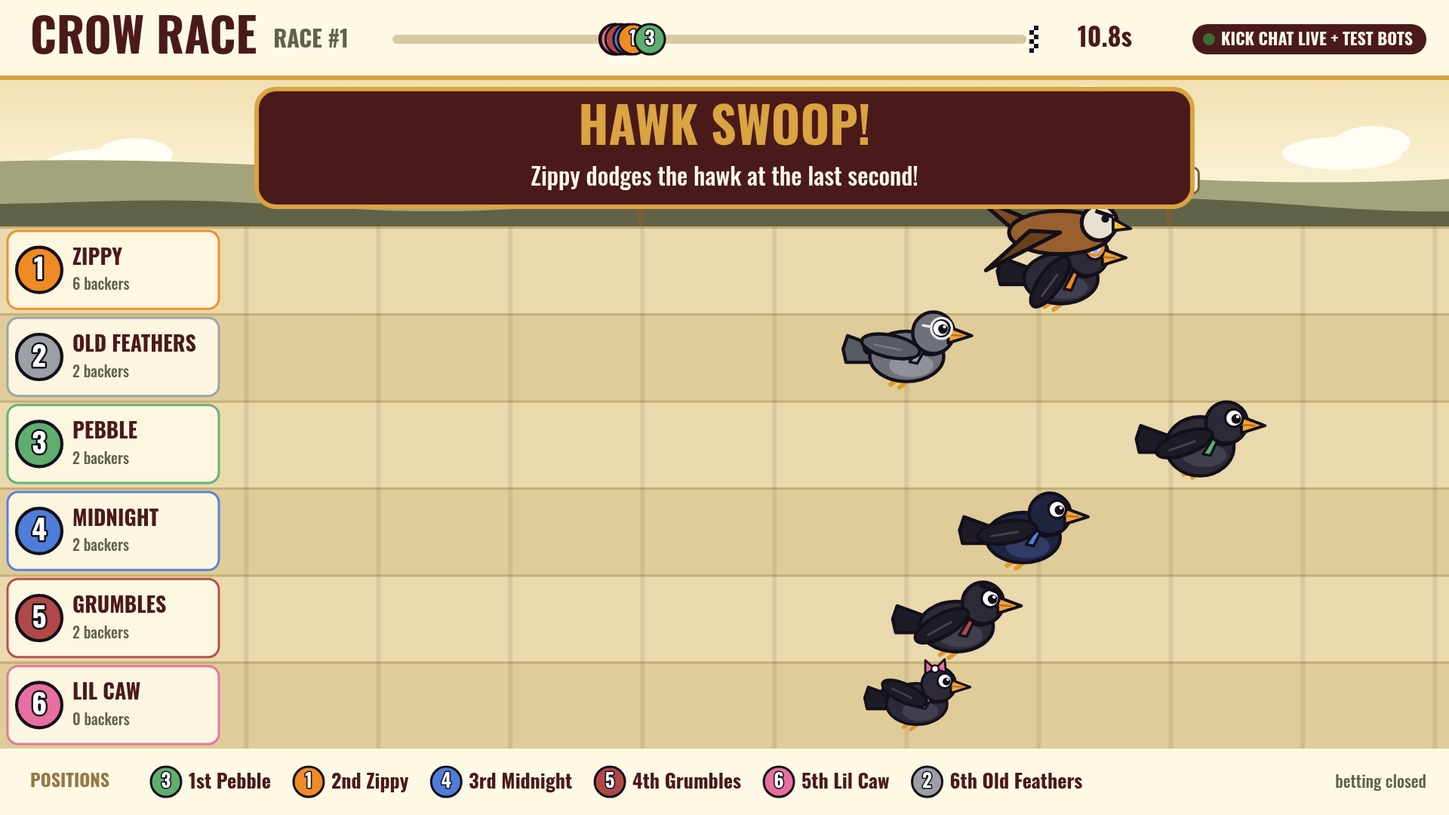
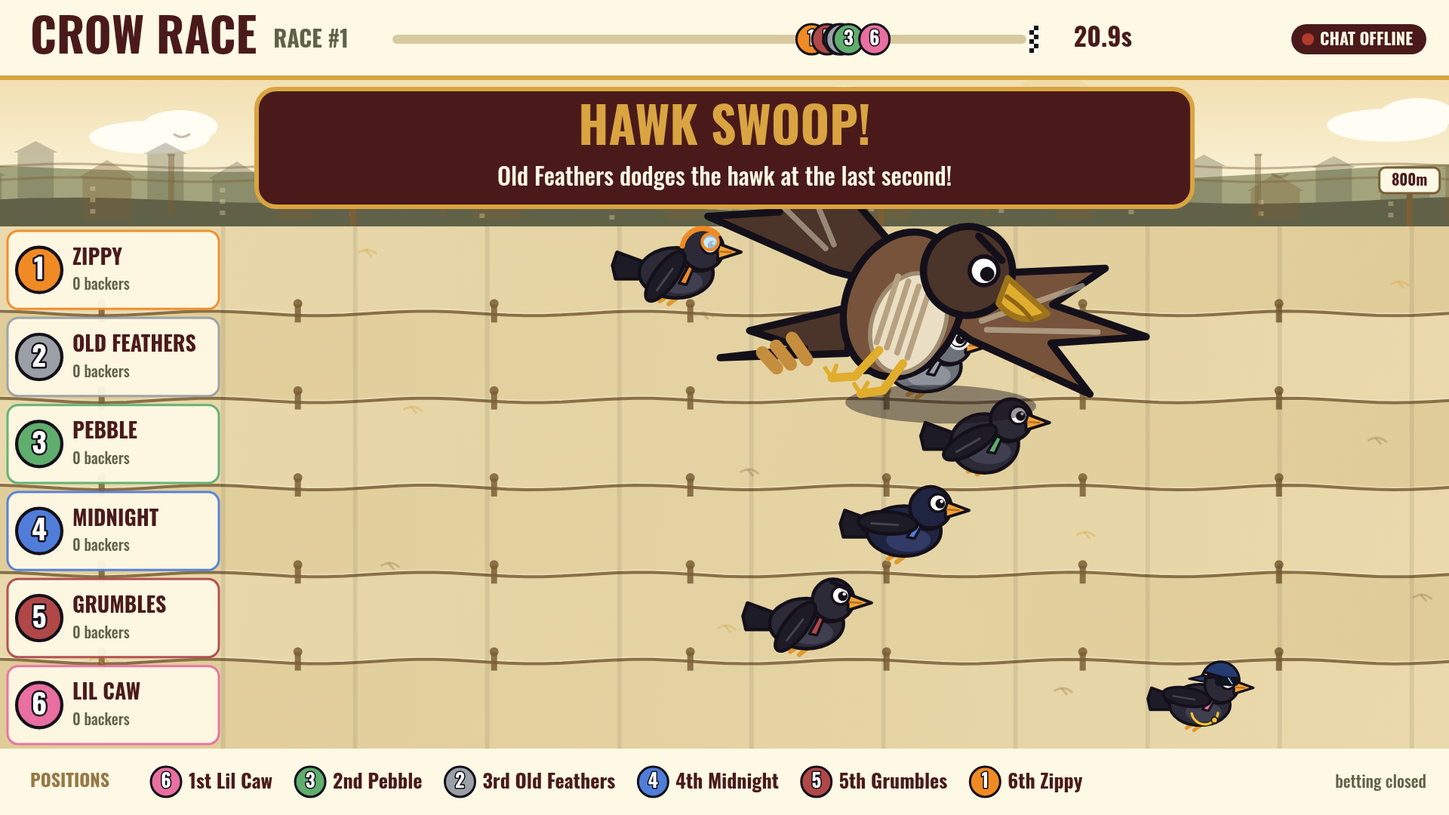
Refresh hawk and race course visuals

diff --git a/index.html b/index.html
@@ -60,7 +60,7 @@ const DATA = {
   roster: [
     { id: 'bigbeak',     name: 'Big Beak',     line: 'All beak, no brakes.',              spd: 1.035, sta: 0.45, luck: 0.30, greed: 0.30, acc: 'beak',    col: '#d9583b' },
     { id: 'shinythief',  name: 'Shiny Thief',  line: 'Stops for anything that glitters.', spd: 1.045, sta: 0.60, luck: 0.50, greed: 1.00, acc: 'mask',    col: '#e0b030' },
-    { id: 'lilcaw',      name: 'Lil Caw',      line: 'Tiny, fearless, weirdly lucky.',    spd: 0.970, sta: 0.70, luck: 0.95, greed: 0.30, acc: 'bow',     col: '#e86fa0', small: true },
+    { id: 'lilcaw',      name: 'Lil Caw',      line: 'Spits bars mid-flight. Small bird, big flow.', spd: 0.970, sta: 0.70, luck: 0.95, greed: 0.30, acc: 'rapper',  col: '#e86fa0', small: true },
     { id: 'oldfeathers', name: 'Old Feathers', line: 'Slow start. Never gets tired.',     spd: 0.970, sta: 1.00, luck: 0.60, greed: 0.10, acc: 'glasses', col: '#9aa0a6', grey: true },
     { id: 'sirsquawks',  name: 'Sir Squawks',  line: 'Top hat. Bigger ego.',              spd: 1.020, sta: 0.60, luck: 0.40, greed: 0.45, acc: 'tophat',  col: '#7b5cd6' },
     { id: 'midnight',    name: 'Midnight',     line: 'Silent, fast, a little spooky.',    spd: 1.030, sta: 0.40, luck: 0.40, greed: 0.20, acc: 'none',    col: '#4f7dd9' },
@@ -427,6 +427,13 @@ function drawCrow(x, y, s, c, t, o) {
   switch (c.acc) {
     case 'mask': ctx.save(); rr(18, -42, 46, 16, 7); ctx.fillStyle = '#0b0a10'; ctx.fill(); circ(46, -33, 8); fs('#fff'); circ(49, -32, 5); fs(OUT); ctx.restore(); break;
     case 'bow': ctx.beginPath(); ctx.moveTo(30, -52); ctx.lineTo(14, -66); ctx.lineTo(14, -44); ctx.closePath(); fs(c.col, 3.5); ctx.beginPath(); ctx.moveTo(30, -52); ctx.lineTo(46, -68); ctx.lineTo(48, -46); ctx.closePath(); fs(c.col, 3.5); circ(30, -52, 6); fs('#fff', 3); break;
+    case 'rapper':
+      // backwards cap + compact shades keep Lil Caw recognizable even at race scale
+      ctx.beginPath(); ctx.arc(34, -34, 31, Math.PI * 1.08, Math.PI * 2.02); ctx.lineTo(7, -48); ctx.lineTo(0, -38); ctx.lineTo(24, -39); ctx.closePath(); fs('#263b72', 4);
+      ctx.beginPath(); ctx.moveTo(8, -43); ctx.lineTo(-18, -37); ctx.lineTo(8, -32); ctx.closePath(); fs('#263b72', 3);
+      rr(26, -39, 37, 12, 5); fs('#101522', 3); ctx.strokeStyle = '#9bd4e8'; ctx.lineWidth = 2; ctx.beginPath(); ctx.moveTo(47, -38); ctx.lineTo(53, -29); ctx.stroke();
+      ctx.save(); ctx.strokeStyle = '#f4c430'; ctx.lineWidth = 4; ctx.beginPath(); ctx.arc(8, 16, 22, 0.16, 2.95); ctx.stroke(); circ(24, 31, 5); fs('#f4c430', 2, OUT); ctx.restore();
+      break;
     case 'glasses': circ(47, -32, 14); ctx.lineWidth = 3.5; ctx.strokeStyle = '#e8e8e8'; ctx.stroke(); ctx.beginPath(); ctx.moveTo(33, -34); ctx.lineTo(22, -36); ctx.stroke(); break;
     case 'tophat': rr(10, -58, 54, 8, 3); fs('#15141c', 3.5); rr(18, -94, 38, 38, 4); fs('#15141c', 3.5); rr(18, -66, 38, 8, 0); fs(c.col); break;
     case 'goggles': ctx.strokeStyle = c.col; ctx.lineWidth = 7; ctx.beginPath(); ctx.arc(36, -26, 28, Math.PI * 1.05, Math.PI * 1.75); ctx.stroke(); circ(46, -36, 11); fs('rgba(190,230,255,0.8)', 4, c.col); break;
@@ -439,16 +446,32 @@ function drawCrow(x, y, s, c, t, o) {
   ctx.strokeStyle = 'rgba(255,255,255,0.18)'; ctx.lineWidth = 3; ctx.beginPath(); ctx.moveTo(-40, 2); ctx.lineTo(-4, 2); ctx.stroke(); ctx.restore();
   ctx.restore();
 }
-function drawHawk(x, y, s, t) {
-  ctx.save(); ctx.translate(x, y); ctx.scale(s / 100, s / 100); ctx.lineJoin = 'round';
-  const f = Math.sin(t * 18) * 0.4;
-  ctx.save(); ctx.rotate(-f); ctx.beginPath(); ctx.moveTo(0, 0); ctx.lineTo(-70, -60); ctx.lineTo(-40, -10); ctx.closePath(); fs('#7a4a24', 4); ctx.restore();
-  ell(0, 0, 52, 22); fs('#9a5f2e', 4); circ(40, -10, 18); fs('#e8e0d0', 4);
-  ctx.beginPath(); ctx.moveTo(54, -14); ctx.lineTo(72, -4); ctx.lineTo(54, -2); ctx.closePath(); fs('#f2c230', 3);
-  circ(46, -14, 4); fs(OUT); ctx.strokeStyle = OUT; ctx.lineWidth = 4; ctx.beginPath(); ctx.moveTo(36, -22); ctx.lineTo(54, -16); ctx.stroke();
-  ctx.save(); ctx.rotate(f); ctx.beginPath(); ctx.moveTo(0, 0); ctx.lineTo(-60, 60); ctx.lineTo(-30, 8); ctx.closePath(); fs('#6a3f1e', 4); ctx.restore();
+function drawHawk(x, y, s, t, dive) {
+  // A broad, unmistakable raptor silhouette. Coordinates face down/right in a steep dive.
+  dive = dive || 0; const k = s / 100, flap = Math.sin(t * 11) * 0.08;
+  ctx.save(); ctx.translate(x, y); ctx.scale(k, k); ctx.rotate(0.32 + dive * 0.14); ctx.lineJoin = 'round'; ctx.lineCap = 'round';
+  const feather = '#4b3429', feather2 = '#76533a', pale = '#eadfc4', beak = '#e0ad2d';
+  // broad spread wings with separated flight feathers
+  ctx.save(); ctx.rotate(-0.10 + flap); ctx.beginPath(); ctx.moveTo(-6, -8); ctx.lineTo(-126, -62); ctx.lineTo(-94, -28); ctx.lineTo(-164, -22); ctx.lineTo(-106, -4); ctx.lineTo(-150, 20); ctx.lineTo(-56, 18); ctx.lineTo(-14, 10); ctx.closePath(); fs(feather, 5); ctx.restore();
+  ctx.save(); ctx.rotate(0.12 - flap); ctx.beginPath(); ctx.moveTo(2, -5); ctx.lineTo(112, -72); ctx.lineTo(92, -32); ctx.lineTo(160, -44); ctx.lineTo(104, -8); ctx.lineTo(145, 10); ctx.lineTo(54, 17); ctx.lineTo(10, 12); ctx.closePath(); fs(feather2, 5); ctx.restore();
+  // wing bar highlights make the spread read at a glance
+  ctx.strokeStyle = 'rgba(235,225,200,0.48)'; ctx.lineWidth = 4;
+  for (const [x1, y1, x2, y2] of [[-116,-45,-62,2],[-133,-15,-66,7],[106,-49,54,4],[130,-25,60,8]]) { ctx.beginPath(); ctx.moveTo(x1,y1); ctx.lineTo(x2,y2); ctx.stroke(); }
+  // tapered banded tail
+  ctx.beginPath(); ctx.moveTo(-30, 34); ctx.lineTo(-88, 82); ctx.lineTo(-48, 76); ctx.lineTo(-98, 108); ctx.lineTo(-20, 66); ctx.closePath(); fs(feather, 5);
+  ctx.strokeStyle = '#c58e3e'; ctx.lineWidth = 9; for (const q of [0.3, 0.58, 0.82]) { ctx.beginPath(); ctx.moveTo(-51 - q * 27, 63 + q * 35); ctx.lineTo(-34 - q * 31, 74 + q * 28); ctx.stroke(); }
+  // chest and body
+  ell(0, 18, 40, 52, -0.08); fs(feather2, 5); ell(9, 28, 25, 36, -0.08); fs(pale, 3, '#9e8b70');
+  ctx.strokeStyle = '#b6a281'; ctx.lineWidth = 4; for (let q = -1; q <= 2; q++) { ctx.beginPath(); ctx.moveTo(-4 + q * 8, 2); ctx.lineTo(3 + q * 8, 50); ctx.stroke(); }
+  // head, fierce brow, hooked yellow beak
+  circ(30, -23, 31); fs(feather, 5); circ(40, -28, 10); fs('#fff', 3); circ(43, -27, 5); fs(OUT); ctx.strokeStyle = OUT; ctx.lineWidth = 5; ctx.beginPath(); ctx.moveTo(26, -48); ctx.lineTo(48, -40); ctx.stroke();
+  ctx.beginPath(); ctx.moveTo(57, -31); ctx.lineTo(93, -21); ctx.quadraticCurveTo(80, -3, 59, -12); ctx.closePath(); fs(beak, 4, '#9e741b'); ctx.strokeStyle = '#8d6315'; ctx.lineWidth = 3; ctx.beginPath(); ctx.moveTo(62, -19); ctx.quadraticCurveTo(77, -17, 85, -12); ctx.stroke();
+  // visible talons reaching toward the crow
+  ctx.strokeStyle = beak; ctx.lineWidth = 6; ctx.beginPath(); ctx.moveTo(-1, 54); ctx.lineTo(-8, 78); ctx.lineTo(-22, 86); ctx.moveTo(18, 55); ctx.lineTo(14, 78); ctx.lineTo(1, 87); ctx.stroke();
+  ctx.lineWidth = 3; ctx.beginPath(); ctx.moveTo(-22, 86); ctx.lineTo(-29, 82); ctx.moveTo(-22, 86); ctx.lineTo(-23, 77); ctx.moveTo(1, 87); ctx.lineTo(-6, 83); ctx.moveTo(1, 87); ctx.lineTo(2, 78); ctx.stroke();
   ctx.restore();
 }
+
 function star(x, y, r, rot, col) { ctx.save(); ctx.translate(x, y); ctx.rotate(rot); ctx.beginPath(); for (let i = 0; i < 8; i++) { const a = i * Math.PI / 4, q = i % 2 ? r * 0.35 : r; ctx.lineTo(Math.cos(a) * q, Math.sin(a) * q); } ctx.closePath(); fs(col, 3); ctx.restore(); }
 
 /* ===================================================================== shared chrome */
@@ -559,19 +582,38 @@ function raceView() {
 }
 function drawRace(t) {
   const R = G.R, lu = G.lineup, n = R.crows.length, { k, cam } = raceView(), D = DATA.race;
-  // sky + parallax hills + clouds
+  // sky + layered parallax course: sun, moving clouds, hills, rooftops and wires
   const g = ctx.createLinearGradient(0, 100, 0, FIELD.top); g.addColorStop(0, P.sky2); g.addColorStop(1, P.sky1); ctx.fillStyle = g; ctx.fillRect(0, 100, 1920, FIELD.top - 100 + 2);
+  ctx.save(); ctx.globalAlpha = 0.72; circ(1560 - (cam * 0.04 % 260), 170, 48); fs(P.hi); circ(1560 - (cam * 0.04 % 260), 170, 72); ctx.globalAlpha = 0.09; fs(P.hi); ctx.restore();
   ctx.fillStyle = P.cloud; for (let i = 0; i < 7; i++) { const x = ((i * 380 - cam * 0.08 - t * 12) % 2400 + 2400) % 2400 - 240, y = 150 + (i * 53) % 90; ell(x, y, 80, 22); ctx.fill(); ell(x + 40, y - 14, 50, 22); ctx.fill(); }
   for (const [col, par, amp, base, fr] of [[P.hill1, 0.15, 40, FIELD.top - 50, 0.004], [P.hill2, 0.35, 28, FIELD.top - 14, 0.007]]) {
     ctx.beginPath(); ctx.moveTo(0, FIELD.top + 2); for (let x = 0; x <= 1920; x += 20) ctx.lineTo(x, base - amp * (0.6 + 0.4 * Math.sin((x + cam * par) * fr) * Math.cos((x + cam * par) * fr * 0.37))); ctx.lineTo(1920, FIELD.top + 2); ctx.closePath(); ctx.fillStyle = col; ctx.fill();
   }
-  // lanes
+  // A distant, slow-moving skyline gives the open-air race a sense of place.
+  ctx.save(); ctx.globalAlpha = 0.34; const cityShift = (cam * 0.12) % 420;
+  for (let bx = -80 - cityShift, i = 0; bx < 2050; bx += 86, i++) { const bw = 48 + (i * 17) % 34, bh = 28 + (i * 31) % 64, by = FIELD.top - 8 - bh; ctx.fillStyle = i % 3 ? P.hill2 : P.post; ctx.fillRect(bx, by, bw, bh); ctx.beginPath(); ctx.moveTo(bx - 5, by); ctx.lineTo(bx + bw * 0.5, by - 15 - (i % 2) * 8); ctx.lineTo(bx + bw + 5, by); ctx.closePath(); ctx.fill(); if (i % 2) { ctx.fillStyle = P.sky2; for (let wy = by + 12; wy < by + bh - 4; wy += 15) ctx.fillRect(bx + 10, wy, 7, 6); } }
+  ctx.restore();
+  // distant birds and telephone lines, deliberately faint so racers remain the focus
+  ctx.save(); ctx.globalAlpha = 0.42; ctx.strokeStyle = P.post; ctx.lineWidth = 3; ctx.lineCap = 'round';
+  const wireShift = (cam * 0.18) % 360; for (let wx = -120 - wireShift; wx < 2100; wx += 360) { ctx.fillStyle = P.post; ctx.fillRect(wx - 4, 205, 8, 82); ctx.beginPath(); ctx.moveTo(wx - 4, 205); ctx.lineTo(wx + 4, 205); ctx.stroke(); }
+  for (const wy of [220, 238]) { ctx.beginPath(); for (let wx = -150; wx <= 2050; wx += 24) ctx.lineTo(wx, wy + Math.sin(wx * 0.018 + cam * 0.01) * 3); ctx.stroke(); }
+  for (let i = 0; i < 8; i++) { const bx = ((i * 291 - cam * 0.18 + t * 18) % 2300 + 2300) % 2300 - 160, by = 178 + (i * 37) % 66; ctx.beginPath(); ctx.moveTo(bx - 10, by); ctx.quadraticCurveTo(bx, by + 7, bx + 10, by); ctx.stroke(); }
+  ctx.restore();
+  // lanes: alternating tints, rope-like dividers and regularly spaced posts
   const lh = (FIELD.bot - FIELD.top) / n;
-  for (let j = 0; j < n; j++) { ctx.fillStyle = j % 2 ? P.laneB : P.laneA; ctx.fillRect(0, FIELD.top + j * lh, 1920, lh); ctx.fillStyle = P.laneLine; ctx.fillRect(0, FIELD.top + j * lh, 1920, 3); }
+  for (let j = 0; j < n; j++) { const y = FIELD.top + j * lh; const lg = ctx.createLinearGradient(0, y, 1920, y + lh); lg.addColorStop(0, j % 2 ? P.laneB : P.laneA); lg.addColorStop(1, j % 2 ? P.laneA : P.laneB); ctx.fillStyle = lg; ctx.fillRect(0, y, 1920, lh); }
+  ctx.save(); ctx.globalAlpha = 0.85; ctx.lineCap = 'round';
+  for (let j = 1; j < n; j++) { const y = FIELD.top + j * lh; ctx.strokeStyle = P.post; ctx.lineWidth = 4; ctx.beginPath(); for (let xx = 0; xx <= 1920; xx += 24) ctx.lineTo(xx, y + Math.sin(xx * 0.022 + cam * 0.012) * 3); ctx.stroke(); ctx.strokeStyle = 'rgba(255,255,255,0.28)'; ctx.lineWidth = 2; ctx.beginPath(); for (let xx = 0; xx <= 1920; xx += 24) ctx.lineTo(xx, y - 3 + Math.sin(xx * 0.022 + cam * 0.012) * 3); ctx.stroke(); }
+  const postShift = (cam * 0.35) % 260; ctx.fillStyle = P.post; for (let xx = -postShift; xx < 2050; xx += 260) for (let j = 1; j < n; j++) { const y = FIELD.top + j * lh; ctx.fillRect(xx - 4, y - 12, 8, 24); circ(xx, y - 13, 6); ctx.fill(); }
+  ctx.restore();
+  // tiny leaves and feathers scroll through the open course
+  ctx.save(); ctx.globalAlpha = 0.34; ctx.lineWidth = 3; for (let i = 0; i < 15; i++) { const fx = ((i * 257 + t * (55 + i * 3) - cam * 0.7) % 2200 + 2200) % 2200 - 140, fy = FIELD.top + 35 + ((i * 83) % Math.max(80, FIELD.bot - FIELD.top - 70)); ctx.strokeStyle = i % 2 ? P.gold : P.hi; ctx.beginPath(); ctx.moveTo(fx, fy); ctx.quadraticCurveTo(fx + 14, fy - 9, fx + 25, fy + 2); ctx.stroke(); ctx.beginPath(); ctx.moveTo(fx + 10, fy - 4); ctx.lineTo(fx + 18, fy + 5); ctx.stroke(); }
+  ctx.restore();
   const sx = px => FIELD.x0 + px - cam;
   ctx.fillStyle = 'rgba(0,0,0,0.07)'; for (let px = Math.floor(cam / 175) * 175; px < cam + 1800; px += 175) ctx.fillRect(sx(px), FIELD.top, 6, FIELD.bot - FIELD.top);
   for (let m = 0; m <= 1000; m += 100) { const x = sx(m * k); if (x < FIELD.x0 - 40 || x > 1960) continue; ctx.fillStyle = P.post; ctx.fillRect(x - 4, FIELD.top - 46, 8, 46); rr(x - 40, FIELD.top - 78, 80, 34, 8); fs(P.bar, 3, P.post); T(m === 0 ? 'START' : m === 1000 ? 'FINISH' : m + 'm', x, FIELD.top - 60, 20, P.ink, 'center'); }
-  const fx = sx(D.trackPx); if (fx < 1960) for (let y = FIELD.top, r = 0; y < FIELD.bot; y += 24, r++) for (let c = 0; c < 2; c++) { ctx.fillStyle = (r + c) % 2 ? '#111' : '#fff'; ctx.fillRect(fx + c * 24, y, 24, 24); }
+  const startX = sx(0); if (startX > -80 && startX < 1940) { ctx.fillStyle = P.post; ctx.fillRect(startX - 10, FIELD.top - 18, 12, FIELD.bot - FIELD.top + 18); ctx.fillRect(startX + 72, FIELD.top - 18, 12, FIELD.bot - FIELD.top + 18); ctx.fillRect(startX - 10, FIELD.top - 30, 96, 12); for (let q = 0; q < 6; q++) { ctx.fillStyle = q % 2 ? P.ink : P.bar; ctx.fillRect(startX + q * 16 - 6, FIELD.top - 30, 16, 12); } }
+  const fx = sx(D.trackPx); if (fx > -120 && fx < 2040) { for (let y = FIELD.top, r = 0; y < FIELD.bot; y += 24, r++) for (let c = 0; c < 2; c++) { ctx.fillStyle = (r + c) % 2 ? P.ink : P.bar; ctx.fillRect(fx + c * 24, y, 24, 24); } ctx.fillStyle = P.post; ctx.fillRect(fx - 64, FIELD.top - 22, 8, 70); ctx.fillRect(fx + 42, FIELD.top - 22, 8, 70); for (let r = 0; r < 2; r++) for (let c = 0; c < 8; c++) { ctx.fillStyle = (r + c) % 2 ? P.ink : P.bar; ctx.fillRect(fx - 60 + c * 14, FIELD.top - 70 + r * 14, 14, 14); } }
   // wind streaks
   if (R.crows.some(c => c.wind > 0)) { ctx.save(); ctx.strokeStyle = 'rgba(255,255,255,0.75)'; ctx.lineWidth = 5; ctx.lineCap = 'round'; for (let i = 0; i < 26; i++) { const x = ((i * 157 + t * 1500) % 2200) - 140, y = 130 + (i * 97) % 850; ctx.beginPath(); ctx.moveTo(x, y); ctx.lineTo(x + 110, y); ctx.stroke(); } ctx.restore(); }
   // crows
@@ -588,7 +630,7 @@ function drawRace(t) {
   // event effects
   for (const f of R.fx) {
     const c = R.crows[f.i], j = f.i, cy = FIELD.top + j * lh + lh / 2, x = Math.max(FIELD.x0 + 60, sx(c.d * k)), age = R.t - f.t0, s = Math.min(120, lh * 0.85);
-    if (f.type === 'hawk') { const a = clamp(age / 0.7, 0, 1), b = clamp((age - 0.7) / 1, 0, 1); const hx = age < 0.7 ? lerp(x - 380, x, ease(a)) : lerp(x, x + 700, b), hy = age < 0.7 ? lerp(120, cy - s * 0.5, ease(a)) : lerp(cy - s * 0.5, 60, b); if (age < 1.7) drawHawk(hx, hy, 130, t); }
+    if (f.type === 'hawk') { /* drawn in a final pass above the lane labels and racers */ }
     else if (f.type === 'shiny' && age < f.dur) { star(x + s * 0.95, cy + s * 0.32, 22 + Math.sin(t * 10) * 5, t * 3, '#ffe066'); star(x + s * 1.25, cy - s * 0.1, 10, -t * 4, '#fff6b0'); }
     else if (f.type === 'worm' && age < 1.4) { ctx.save(); ctx.strokeStyle = '#e8829a'; ctx.lineWidth = 9; ctx.lineCap = 'round'; ctx.beginPath(); for (let q = 0; q <= 6; q++) ctx.lineTo(x + s * 0.8 + q * 7, cy - s * 0.75 - age * 30 + Math.sin(q + t * 10) * 6); ctx.stroke(); ctx.restore(); }
     else if (f.type === 'updraft' && age < 2.5) { ctx.save(); ctx.strokeStyle = 'rgba(255,255,255,0.9)'; ctx.lineWidth = 5; for (let q = 0; q < 3; q++) { ctx.beginPath(); ctx.arc(x - 20 + q * 30, cy + s * 0.45 - ((age * 120 + q * 25) % 70), 16, Math.PI * 0.2, Math.PI * 1.6); ctx.stroke(); } ctx.restore(); }
@@ -601,6 +643,21 @@ function drawRace(t) {
     T(fit(c.c.name.toUpperCase(), Math.min(28, h * 0.27), FIELD.labelW - 2 * r - 50), 2 * r + 36, y + h / 2 - h * 0.15, Math.min(28, h * 0.27), P.cardInk);
     const b = backers(j); T(b + (b === 1 ? ' backer' : ' backers'), 2 * r + 36, y + h / 2 + h * 0.2, Math.min(20, h * 0.2), P.muted, 'left', { w: 500 });
   });
+  // hawk pass: it lives above the course, with a readable shadow and a clear near-miss/hit beat
+  for (const f of R.fx) if (f.type === 'hawk') {
+    const c = R.crows[f.i], j = f.i, cy = FIELD.top + j * lh + lh / 2, x = Math.max(FIELD.x0 + 60, sx(c.d * k)), age = R.t - f.t0, crowS = Math.min(120, lh * 0.85), hs = Math.max(190, crowS * 1.75), hit = c.back > 0;
+    if (age >= 0 && age < 2.55) {
+      const strike = age < 0.88 ? 0 : age < 1.22 ? (age - 0.88) / 0.34 : 1, leaving = age > 1.22 ? ease((age - 1.22) / 1.25) : 0;
+      let hx, hy;
+      if (age < 0.88) { const p = ease(age / 0.88); hx = lerp(x - 170, x - 12, p); hy = lerp(-260, cy - hs * 0.52, p); }
+      else if (age < 1.22) { const p = ease((age - 0.88) / 0.34); hx = x + (hit ? lerp(-12, -34, p) : lerp(-12, 88, p)); hy = cy - hs * (hit ? 0.52 : 0.72); }
+      else { hx = lerp(x + (hit ? -34 : 88), x + 360, leaving); hy = lerp(cy - hs * (hit ? 0.52 : 0.72), -300, leaving); }
+      const depth = age < 1.12 ? ease(age / 1.12) : Math.max(0, 1 - (age - 1.12) / 1.35);
+      ctx.save(); ctx.globalAlpha = 0.20 + depth * 0.24; ctx.fillStyle = OUT; ell(x + (hit ? -18 : 22), cy + crowS * 0.64, hs * (0.22 + depth * 0.46), 10 + depth * 16, 0.02); ctx.fill(); ctx.restore();
+      if (strike > 0 && strike < 1) { ctx.save(); ctx.globalAlpha = 0.72 * Math.sin(strike * Math.PI); ctx.strokeStyle = hit ? P.bad : P.hi; ctx.lineWidth = 7; ctx.beginPath(); ctx.arc(x + (hit ? -10 : 40), cy - hs * 0.25, hs * 0.38, -1.1, 1.2); ctx.stroke(); ctx.restore(); }
+      if (age < 2.35) drawHawk(hx, hy, hs, t, 1 - leaving);
+    }
+  }
   // header + minimap
   ctx.fillStyle = P.bar; ctx.fillRect(0, 0, 1920, 100); ctx.fillStyle = P.hi; ctx.fillRect(0, 100, 1920, 6);
   T('CROW RACE', 40, 52, 62, P.ink); ctx.font = `700 62px ${F}`; T('RACE #' + G.raceNo, 62 + ctx.measureText('CROW RACE').width, 54, 30, P.muted);

diff --git a/src/3-draw.js b/src/3-draw.js
@@ -49,6 +49,13 @@ function drawCrow(x, y, s, c, t, o) {
   switch (c.acc) {
     case 'mask': ctx.save(); rr(18, -42, 46, 16, 7); ctx.fillStyle = '#0b0a10'; ctx.fill(); circ(46, -33, 8); fs('#fff'); circ(49, -32, 5); fs(OUT); ctx.restore(); break;
     case 'bow': ctx.beginPath(); ctx.moveTo(30, -52); ctx.lineTo(14, -66); ctx.lineTo(14, -44); ctx.closePath(); fs(c.col, 3.5); ctx.beginPath(); ctx.moveTo(30, -52); ctx.lineTo(46, -68); ctx.lineTo(48, -46); ctx.closePath(); fs(c.col, 3.5); circ(30, -52, 6); fs('#fff', 3); break;
+    case 'rapper':
+      // backwards cap + compact shades keep Lil Caw recognizable even at race scale
+      ctx.beginPath(); ctx.arc(34, -34, 31, Math.PI * 1.08, Math.PI * 2.02); ctx.lineTo(7, -48); ctx.lineTo(0, -38); ctx.lineTo(24, -39); ctx.closePath(); fs('#263b72', 4);
+      ctx.beginPath(); ctx.moveTo(8, -43); ctx.lineTo(-18, -37); ctx.lineTo(8, -32); ctx.closePath(); fs('#263b72', 3);
+      rr(26, -39, 37, 12, 5); fs('#101522', 3); ctx.strokeStyle = '#9bd4e8'; ctx.lineWidth = 2; ctx.beginPath(); ctx.moveTo(47, -38); ctx.lineTo(53, -29); ctx.stroke();
+      ctx.save(); ctx.strokeStyle = '#f4c430'; ctx.lineWidth = 4; ctx.beginPath(); ctx.arc(8, 16, 22, 0.16, 2.95); ctx.stroke(); circ(24, 31, 5); fs('#f4c430', 2, OUT); ctx.restore();
+      break;
     case 'glasses': circ(47, -32, 14); ctx.lineWidth = 3.5; ctx.strokeStyle = '#e8e8e8'; ctx.stroke(); ctx.beginPath(); ctx.moveTo(33, -34); ctx.lineTo(22, -36); ctx.stroke(); break;
     case 'tophat': rr(10, -58, 54, 8, 3); fs('#15141c', 3.5); rr(18, -94, 38, 38, 4); fs('#15141c', 3.5); rr(18, -66, 38, 8, 0); fs(c.col); break;
     case 'goggles': ctx.strokeStyle = c.col; ctx.lineWidth = 7; ctx.beginPath(); ctx.arc(36, -26, 28, Math.PI * 1.05, Math.PI * 1.75); ctx.stroke(); circ(46, -36, 11); fs('rgba(190,230,255,0.8)', 4, c.col); break;
@@ -61,16 +68,32 @@ function drawCrow(x, y, s, c, t, o) {
   ctx.strokeStyle = 'rgba(255,255,255,0.18)'; ctx.lineWidth = 3; ctx.beginPath(); ctx.moveTo(-40, 2); ctx.lineTo(-4, 2); ctx.stroke(); ctx.restore();
   ctx.restore();
 }
-function drawHawk(x, y, s, t) {
-  ctx.save(); ctx.translate(x, y); ctx.scale(s / 100, s / 100); ctx.lineJoin = 'round';
-  const f = Math.sin(t * 18) * 0.4;
-  ctx.save(); ctx.rotate(-f); ctx.beginPath(); ctx.moveTo(0, 0); ctx.lineTo(-70, -60); ctx.lineTo(-40, -10); ctx.closePath(); fs('#7a4a24', 4); ctx.restore();
-  ell(0, 0, 52, 22); fs('#9a5f2e', 4); circ(40, -10, 18); fs('#e8e0d0', 4);
-  ctx.beginPath(); ctx.moveTo(54, -14); ctx.lineTo(72, -4); ctx.lineTo(54, -2); ctx.closePath(); fs('#f2c230', 3);
-  circ(46, -14, 4); fs(OUT); ctx.strokeStyle = OUT; ctx.lineWidth = 4; ctx.beginPath(); ctx.moveTo(36, -22); ctx.lineTo(54, -16); ctx.stroke();
-  ctx.save(); ctx.rotate(f); ctx.beginPath(); ctx.moveTo(0, 0); ctx.lineTo(-60, 60); ctx.lineTo(-30, 8); ctx.closePath(); fs('#6a3f1e', 4); ctx.restore();
+function drawHawk(x, y, s, t, dive) {
+  // A broad, unmistakable raptor silhouette. Coordinates face down/right in a steep dive.
+  dive = dive || 0; const k = s / 100, flap = Math.sin(t * 11) * 0.08;
+  ctx.save(); ctx.translate(x, y); ctx.scale(k, k); ctx.rotate(0.32 + dive * 0.14); ctx.lineJoin = 'round'; ctx.lineCap = 'round';
+  const feather = '#4b3429', feather2 = '#76533a', pale = '#eadfc4', beak = '#e0ad2d';
+  // broad spread wings with separated flight feathers
+  ctx.save(); ctx.rotate(-0.10 + flap); ctx.beginPath(); ctx.moveTo(-6, -8); ctx.lineTo(-126, -62); ctx.lineTo(-94, -28); ctx.lineTo(-164, -22); ctx.lineTo(-106, -4); ctx.lineTo(-150, 20); ctx.lineTo(-56, 18); ctx.lineTo(-14, 10); ctx.closePath(); fs(feather, 5); ctx.restore();
+  ctx.save(); ctx.rotate(0.12 - flap); ctx.beginPath(); ctx.moveTo(2, -5); ctx.lineTo(112, -72); ctx.lineTo(92, -32); ctx.lineTo(160, -44); ctx.lineTo(104, -8); ctx.lineTo(145, 10); ctx.lineTo(54, 17); ctx.lineTo(10, 12); ctx.closePath(); fs(feather2, 5); ctx.restore();
+  // wing bar highlights make the spread read at a glance
+  ctx.strokeStyle = 'rgba(235,225,200,0.48)'; ctx.lineWidth = 4;
+  for (const [x1, y1, x2, y2] of [[-116,-45,-62,2],[-133,-15,-66,7],[106,-49,54,4],[130,-25,60,8]]) { ctx.beginPath(); ctx.moveTo(x1,y1); ctx.lineTo(x2,y2); ctx.stroke(); }
+  // tapered banded tail
+  ctx.beginPath(); ctx.moveTo(-30, 34); ctx.lineTo(-88, 82); ctx.lineTo(-48, 76); ctx.lineTo(-98, 108); ctx.lineTo(-20, 66); ctx.closePath(); fs(feather, 5);
+  ctx.strokeStyle = '#c58e3e'; ctx.lineWidth = 9; for (const q of [0.3, 0.58, 0.82]) { ctx.beginPath(); ctx.moveTo(-51 - q * 27, 63 + q * 35); ctx.lineTo(-34 - q * 31, 74 + q * 28); ctx.stroke(); }
+  // chest and body
+  ell(0, 18, 40, 52, -0.08); fs(feather2, 5); ell(9, 28, 25, 36, -0.08); fs(pale, 3, '#9e8b70');
+  ctx.strokeStyle = '#b6a281'; ctx.lineWidth = 4; for (let q = -1; q <= 2; q++) { ctx.beginPath(); ctx.moveTo(-4 + q * 8, 2); ctx.lineTo(3 + q * 8, 50); ctx.stroke(); }
+  // head, fierce brow, hooked yellow beak
+  circ(30, -23, 31); fs(feather, 5); circ(40, -28, 10); fs('#fff', 3); circ(43, -27, 5); fs(OUT); ctx.strokeStyle = OUT; ctx.lineWidth = 5; ctx.beginPath(); ctx.moveTo(26, -48); ctx.lineTo(48, -40); ctx.stroke();
+  ctx.beginPath(); ctx.moveTo(57, -31); ctx.lineTo(93, -21); ctx.quadraticCurveTo(80, -3, 59, -12); ctx.closePath(); fs(beak, 4, '#9e741b'); ctx.strokeStyle = '#8d6315'; ctx.lineWidth = 3; ctx.beginPath(); ctx.moveTo(62, -19); ctx.quadraticCurveTo(77, -17, 85, -12); ctx.stroke();
+  // visible talons reaching toward the crow
+  ctx.strokeStyle = beak; ctx.lineWidth = 6; ctx.beginPath(); ctx.moveTo(-1, 54); ctx.lineTo(-8, 78); ctx.lineTo(-22, 86); ctx.moveTo(18, 55); ctx.lineTo(14, 78); ctx.lineTo(1, 87); ctx.stroke();
+  ctx.lineWidth = 3; ctx.beginPath(); ctx.moveTo(-22, 86); ctx.lineTo(-29, 82); ctx.moveTo(-22, 86); ctx.lineTo(-23, 77); ctx.moveTo(1, 87); ctx.lineTo(-6, 83); ctx.moveTo(1, 87); ctx.lineTo(2, 78); ctx.stroke();
   ctx.restore();
 }
+
 function star(x, y, r, rot, col) { ctx.save(); ctx.translate(x, y); ctx.rotate(rot); ctx.beginPath(); for (let i = 0; i < 8; i++) { const a = i * Math.PI / 4, q = i % 2 ? r * 0.35 : r; ctx.lineTo(Math.cos(a) * q, Math.sin(a) * q); } ctx.closePath(); fs(col, 3); ctx.restore(); }
 
 /* ===================================================================== shared chrome */
@@ -181,19 +204,38 @@ function raceView() {
 }
 function drawRace(t) {
   const R = G.R, lu = G.lineup, n = R.crows.length, { k, cam } = raceView(), D = DATA.race;
-  // sky + parallax hills + clouds
+  // sky + layered parallax course: sun, moving clouds, hills, rooftops and wires
   const g = ctx.createLinearGradient(0, 100, 0, FIELD.top); g.addColorStop(0, P.sky2); g.addColorStop(1, P.sky1); ctx.fillStyle = g; ctx.fillRect(0, 100, 1920, FIELD.top - 100 + 2);
+  ctx.save(); ctx.globalAlpha = 0.72; circ(1560 - (cam * 0.04 % 260), 170, 48); fs(P.hi); circ(1560 - (cam * 0.04 % 260), 170, 72); ctx.globalAlpha = 0.09; fs(P.hi); ctx.restore();
   ctx.fillStyle = P.cloud; for (let i = 0; i < 7; i++) { const x = ((i * 380 - cam * 0.08 - t * 12) % 2400 + 2400) % 2400 - 240, y = 150 + (i * 53) % 90; ell(x, y, 80, 22); ctx.fill(); ell(x + 40, y - 14, 50, 22); ctx.fill(); }
   for (const [col, par, amp, base, fr] of [[P.hill1, 0.15, 40, FIELD.top - 50, 0.004], [P.hill2, 0.35, 28, FIELD.top - 14, 0.007]]) {
     ctx.beginPath(); ctx.moveTo(0, FIELD.top + 2); for (let x = 0; x <= 1920; x += 20) ctx.lineTo(x, base - amp * (0.6 + 0.4 * Math.sin((x + cam * par) * fr) * Math.cos((x + cam * par) * fr * 0.37))); ctx.lineTo(1920, FIELD.top + 2); ctx.closePath(); ctx.fillStyle = col; ctx.fill();
   }
-  // lanes
+  // A distant, slow-moving skyline gives the open-air race a sense of place.
+  ctx.save(); ctx.globalAlpha = 0.34; const cityShift = (cam * 0.12) % 420;
+  for (let bx = -80 - cityShift, i = 0; bx < 2050; bx += 86, i++) { const bw = 48 + (i * 17) % 34, bh = 28 + (i * 31) % 64, by = FIELD.top - 8 - bh; ctx.fillStyle = i % 3 ? P.hill2 : P.post; ctx.fillRect(bx, by, bw, bh); ctx.beginPath(); ctx.moveTo(bx - 5, by); ctx.lineTo(bx + bw * 0.5, by - 15 - (i % 2) * 8); ctx.lineTo(bx + bw + 5, by); ctx.closePath(); ctx.fill(); if (i % 2) { ctx.fillStyle = P.sky2; for (let wy = by + 12; wy < by + bh - 4; wy += 15) ctx.fillRect(bx + 10, wy, 7, 6); } }
+  ctx.restore();
+  // distant birds and telephone lines, deliberately faint so racers remain the focus
+  ctx.save(); ctx.globalAlpha = 0.42; ctx.strokeStyle = P.post; ctx.lineWidth = 3; ctx.lineCap = 'round';
+  const wireShift = (cam * 0.18) % 360; for (let wx = -120 - wireShift; wx < 2100; wx += 360) { ctx.fillStyle = P.post; ctx.fillRect(wx - 4, 205, 8, 82); ctx.beginPath(); ctx.moveTo(wx - 4, 205); ctx.lineTo(wx + 4, 205); ctx.stroke(); }
+  for (const wy of [220, 238]) { ctx.beginPath(); for (let wx = -150; wx <= 2050; wx += 24) ctx.lineTo(wx, wy + Math.sin(wx * 0.018 + cam * 0.01) * 3); ctx.stroke(); }
+  for (let i = 0; i < 8; i++) { const bx = ((i * 291 - cam * 0.18 + t * 18) % 2300 + 2300) % 2300 - 160, by = 178 + (i * 37) % 66; ctx.beginPath(); ctx.moveTo(bx - 10, by); ctx.quadraticCurveTo(bx, by + 7, bx + 10, by); ctx.stroke(); }
+  ctx.restore();
+  // lanes: alternating tints, rope-like dividers and regularly spaced posts
   const lh = (FIELD.bot - FIELD.top) / n;
-  for (let j = 0; j < n; j++) { ctx.fillStyle = j % 2 ? P.laneB : P.laneA; ctx.fillRect(0, FIELD.top + j * lh, 1920, lh); ctx.fillStyle = P.laneLine; ctx.fillRect(0, FIELD.top + j * lh, 1920, 3); }
+  for (let j = 0; j < n; j++) { const y = FIELD.top + j * lh; const lg = ctx.createLinearGradient(0, y, 1920, y + lh); lg.addColorStop(0, j % 2 ? P.laneB : P.laneA); lg.addColorStop(1, j % 2 ? P.laneA : P.laneB); ctx.fillStyle = lg; ctx.fillRect(0, y, 1920, lh); }
+  ctx.save(); ctx.globalAlpha = 0.85; ctx.lineCap = 'round';
+  for (let j = 1; j < n; j++) { const y = FIELD.top + j * lh; ctx.strokeStyle = P.post; ctx.lineWidth = 4; ctx.beginPath(); for (let xx = 0; xx <= 1920; xx += 24) ctx.lineTo(xx, y + Math.sin(xx * 0.022 + cam * 0.012) * 3); ctx.stroke(); ctx.strokeStyle = 'rgba(255,255,255,0.28)'; ctx.lineWidth = 2; ctx.beginPath(); for (let xx = 0; xx <= 1920; xx += 24) ctx.lineTo(xx, y - 3 + Math.sin(xx * 0.022 + cam * 0.012) * 3); ctx.stroke(); }
+  const postShift = (cam * 0.35) % 260; ctx.fillStyle = P.post; for (let xx = -postShift; xx < 2050; xx += 260) for (let j = 1; j < n; j++) { const y = FIELD.top + j * lh; ctx.fillRect(xx - 4, y - 12, 8, 24); circ(xx, y - 13, 6); ctx.fill(); }
+  ctx.restore();
+  // tiny leaves and feathers scroll through the open course
+  ctx.save(); ctx.globalAlpha = 0.34; ctx.lineWidth = 3; for (let i = 0; i < 15; i++) { const fx = ((i * 257 + t * (55 + i * 3) - cam * 0.7) % 2200 + 2200) % 2200 - 140, fy = FIELD.top + 35 + ((i * 83) % Math.max(80, FIELD.bot - FIELD.top - 70)); ctx.strokeStyle = i % 2 ? P.gold : P.hi; ctx.beginPath(); ctx.moveTo(fx, fy); ctx.quadraticCurveTo(fx + 14, fy - 9, fx + 25, fy + 2); ctx.stroke(); ctx.beginPath(); ctx.moveTo(fx + 10, fy - 4); ctx.lineTo(fx + 18, fy + 5); ctx.stroke(); }
+  ctx.restore();
   const sx = px => FIELD.x0 + px - cam;
   ctx.fillStyle = 'rgba(0,0,0,0.07)'; for (let px = Math.floor(cam / 175) * 175; px < cam + 1800; px += 175) ctx.fillRect(sx(px), FIELD.top, 6, FIELD.bot - FIELD.top);
   for (let m = 0; m <= 1000; m += 100) { const x = sx(m * k); if (x < FIELD.x0 - 40 || x > 1960) continue; ctx.fillStyle = P.post; ctx.fillRect(x - 4, FIELD.top - 46, 8, 46); rr(x - 40, FIELD.top - 78, 80, 34, 8); fs(P.bar, 3, P.post); T(m === 0 ? 'START' : m === 1000 ? 'FINISH' : m + 'm', x, FIELD.top - 60, 20, P.ink, 'center'); }
-  const fx = sx(D.trackPx); if (fx < 1960) for (let y = FIELD.top, r = 0; y < FIELD.bot; y += 24, r++) for (let c = 0; c < 2; c++) { ctx.fillStyle = (r + c) % 2 ? '#111' : '#fff'; ctx.fillRect(fx + c * 24, y, 24, 24); }
+  const startX = sx(0); if (startX > -80 && startX < 1940) { ctx.fillStyle = P.post; ctx.fillRect(startX - 10, FIELD.top - 18, 12, FIELD.bot - FIELD.top + 18); ctx.fillRect(startX + 72, FIELD.top - 18, 12, FIELD.bot - FIELD.top + 18); ctx.fillRect(startX - 10, FIELD.top - 30, 96, 12); for (let q = 0; q < 6; q++) { ctx.fillStyle = q % 2 ? P.ink : P.bar; ctx.fillRect(startX + q * 16 - 6, FIELD.top - 30, 16, 12); } }
+  const fx = sx(D.trackPx); if (fx > -120 && fx < 2040) { for (let y = FIELD.top, r = 0; y < FIELD.bot; y += 24, r++) for (let c = 0; c < 2; c++) { ctx.fillStyle = (r + c) % 2 ? P.ink : P.bar; ctx.fillRect(fx + c * 24, y, 24, 24); } ctx.fillStyle = P.post; ctx.fillRect(fx - 64, FIELD.top - 22, 8, 70); ctx.fillRect(fx + 42, FIELD.top - 22, 8, 70); for (let r = 0; r < 2; r++) for (let c = 0; c < 8; c++) { ctx.fillStyle = (r + c) % 2 ? P.ink : P.bar; ctx.fillRect(fx - 60 + c * 14, FIELD.top - 70 + r * 14, 14, 14); } }
   // wind streaks
   if (R.crows.some(c => c.wind > 0)) { ctx.save(); ctx.strokeStyle = 'rgba(255,255,255,0.75)'; ctx.lineWidth = 5; ctx.lineCap = 'round'; for (let i = 0; i < 26; i++) { const x = ((i * 157 + t * 1500) % 2200) - 140, y = 130 + (i * 97) % 850; ctx.beginPath(); ctx.moveTo(x, y); ctx.lineTo(x + 110, y); ctx.stroke(); } ctx.restore(); }
   // crows
@@ -210,7 +252,7 @@ function drawRace(t) {
   // event effects
   for (const f of R.fx) {
     const c = R.crows[f.i], j = f.i, cy = FIELD.top + j * lh + lh / 2, x = Math.max(FIELD.x0 + 60, sx(c.d * k)), age = R.t - f.t0, s = Math.min(120, lh * 0.85);
-    if (f.type === 'hawk') { const a = clamp(age / 0.7, 0, 1), b = clamp((age - 0.7) / 1, 0, 1); const hx = age < 0.7 ? lerp(x - 380, x, ease(a)) : lerp(x, x + 700, b), hy = age < 0.7 ? lerp(120, cy - s * 0.5, ease(a)) : lerp(cy - s * 0.5, 60, b); if (age < 1.7) drawHawk(hx, hy, 130, t); }
+    if (f.type === 'hawk') { /* drawn in a final pass above the lane labels and racers */ }
     else if (f.type === 'shiny' && age < f.dur) { star(x + s * 0.95, cy + s * 0.32, 22 + Math.sin(t * 10) * 5, t * 3, '#ffe066'); star(x + s * 1.25, cy - s * 0.1, 10, -t * 4, '#fff6b0'); }
     else if (f.type === 'worm' && age < 1.4) { ctx.save(); ctx.strokeStyle = '#e8829a'; ctx.lineWidth = 9; ctx.lineCap = 'round'; ctx.beginPath(); for (let q = 0; q <= 6; q++) ctx.lineTo(x + s * 0.8 + q * 7, cy - s * 0.75 - age * 30 + Math.sin(q + t * 10) * 6); ctx.stroke(); ctx.restore(); }
     else if (f.type === 'updraft' && age < 2.5) { ctx.save(); ctx.strokeStyle = 'rgba(255,255,255,0.9)'; ctx.lineWidth = 5; for (let q = 0; q < 3; q++) { ctx.beginPath(); ctx.arc(x - 20 + q * 30, cy + s * 0.45 - ((age * 120 + q * 25) % 70), 16, Math.PI * 0.2, Math.PI * 1.6); ctx.stroke(); } ctx.restore(); }
@@ -223,6 +265,21 @@ function drawRace(t) {
     T(fit(c.c.name.toUpperCase(), Math.min(28, h * 0.27), FIELD.labelW - 2 * r - 50), 2 * r + 36, y + h / 2 - h * 0.15, Math.min(28, h * 0.27), P.cardInk);
     const b = backers(j); T(b + (b === 1 ? ' backer' : ' backers'), 2 * r + 36, y + h / 2 + h * 0.2, Math.min(20, h * 0.2), P.muted, 'left', { w: 500 });
   });
+  // hawk pass: it lives above the course, with a readable shadow and a clear near-miss/hit beat
+  for (const f of R.fx) if (f.type === 'hawk') {
+    const c = R.crows[f.i], j = f.i, cy = FIELD.top + j * lh + lh / 2, x = Math.max(FIELD.x0 + 60, sx(c.d * k)), age = R.t - f.t0, crowS = Math.min(120, lh * 0.85), hs = Math.max(190, crowS * 1.75), hit = c.back > 0;
+    if (age >= 0 && age < 2.55) {
+      const strike = age < 0.88 ? 0 : age < 1.22 ? (age - 0.88) / 0.34 : 1, leaving = age > 1.22 ? ease((age - 1.22) / 1.25) : 0;
+      let hx, hy;
+      if (age < 0.88) { const p = ease(age / 0.88); hx = lerp(x - 170, x - 12, p); hy = lerp(-260, cy - hs * 0.52, p); }
+      else if (age < 1.22) { const p = ease((age - 0.88) / 0.34); hx = x + (hit ? lerp(-12, -34, p) : lerp(-12, 88, p)); hy = cy - hs * (hit ? 0.52 : 0.72); }
+      else { hx = lerp(x + (hit ? -34 : 88), x + 360, leaving); hy = lerp(cy - hs * (hit ? 0.52 : 0.72), -300, leaving); }
+      const depth = age < 1.12 ? ease(age / 1.12) : Math.max(0, 1 - (age - 1.12) / 1.35);
+      ctx.save(); ctx.globalAlpha = 0.20 + depth * 0.24; ctx.fillStyle = OUT; ell(x + (hit ? -18 : 22), cy + crowS * 0.64, hs * (0.22 + depth * 0.46), 10 + depth * 16, 0.02); ctx.fill(); ctx.restore();
+      if (strike > 0 && strike < 1) { ctx.save(); ctx.globalAlpha = 0.72 * Math.sin(strike * Math.PI); ctx.strokeStyle = hit ? P.bad : P.hi; ctx.lineWidth = 7; ctx.beginPath(); ctx.arc(x + (hit ? -10 : 40), cy - hs * 0.25, hs * 0.38, -1.1, 1.2); ctx.stroke(); ctx.restore(); }
+      if (age < 2.35) drawHawk(hx, hy, hs, t, 1 - leaving);
+    }
+  }
   // header + minimap
   ctx.fillStyle = P.bar; ctx.fillRect(0, 0, 1920, 100); ctx.fillStyle = P.hi; ctx.fillRect(0, 100, 1920, 6);
   T('CROW RACE', 40, 52, 62, P.ink); ctx.font = `700 62px ${F}`; T('RACE #' + G.raceNo, 62 + ctx.measureText('CROW RACE').width, 54, 30, P.muted);

diff --git a/src/1-core.js b/src/1-core.js
@@ -17,7 +17,7 @@ const DATA = {
   roster: [
     { id: 'bigbeak',     name: 'Big Beak',     line: 'All beak, no brakes.',              spd: 1.035, sta: 0.45, luck: 0.30, greed: 0.30, acc: 'beak',    col: '#d9583b' },
     { id: 'shinythief',  name: 'Shiny Thief',  line: 'Stops for anything that glitters.', spd: 1.045, sta: 0.60, luck: 0.50, greed: 1.00, acc: 'mask',    col: '#e0b030' },
-    { id: 'lilcaw',      name: 'Lil Caw',      line: 'Tiny, fearless, weirdly lucky.',    spd: 0.970, sta: 0.70, luck: 0.95, greed: 0.30, acc: 'bow',     col: '#e86fa0', small: true },
+    { id: 'lilcaw',      name: 'Lil Caw',      line: 'Spits bars mid-flight. Small bird, big flow.', spd: 0.970, sta: 0.70, luck: 0.95, greed: 0.30, acc: 'rapper',  col: '#e86fa0', small: true },
     { id: 'oldfeathers', name: 'Old Feathers', line: 'Slow start. Never gets tired.',     spd: 0.970, sta: 1.00, luck: 0.60, greed: 0.10, acc: 'glasses', col: '#9aa0a6', grey: true },
     { id: 'sirsquawks',  name: 'Sir Squawks',  line: 'Top hat. Bigger ego.',              spd: 1.020, sta: 0.60, luck: 0.40, greed: 0.45, acc: 'tophat',  col: '#7b5cd6' },
     { id: 'midnight',    name: 'Midnight',     line: 'Silent, fast, a little spooky.',    spd: 1.030, sta: 0.40, luck: 0.40, greed: 0.20, acc: 'none',    col: '#4f7dd9' },
